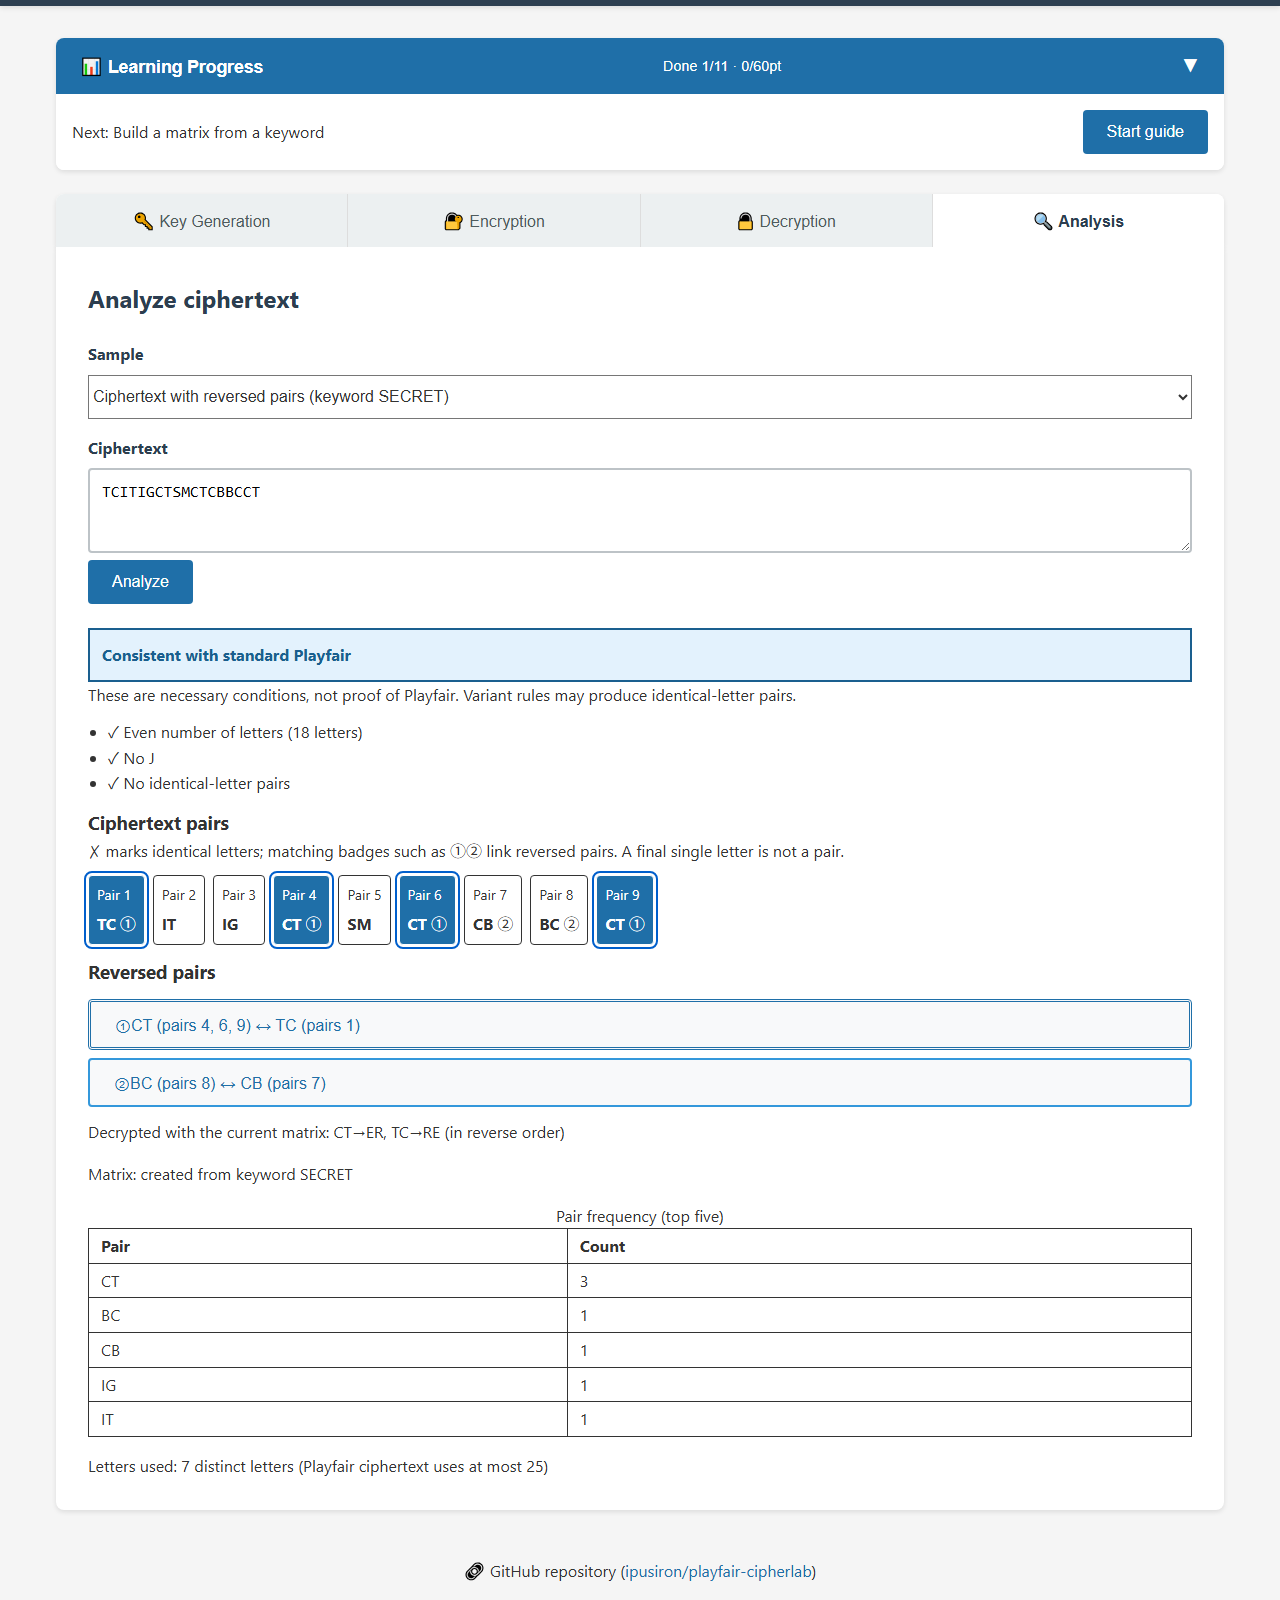
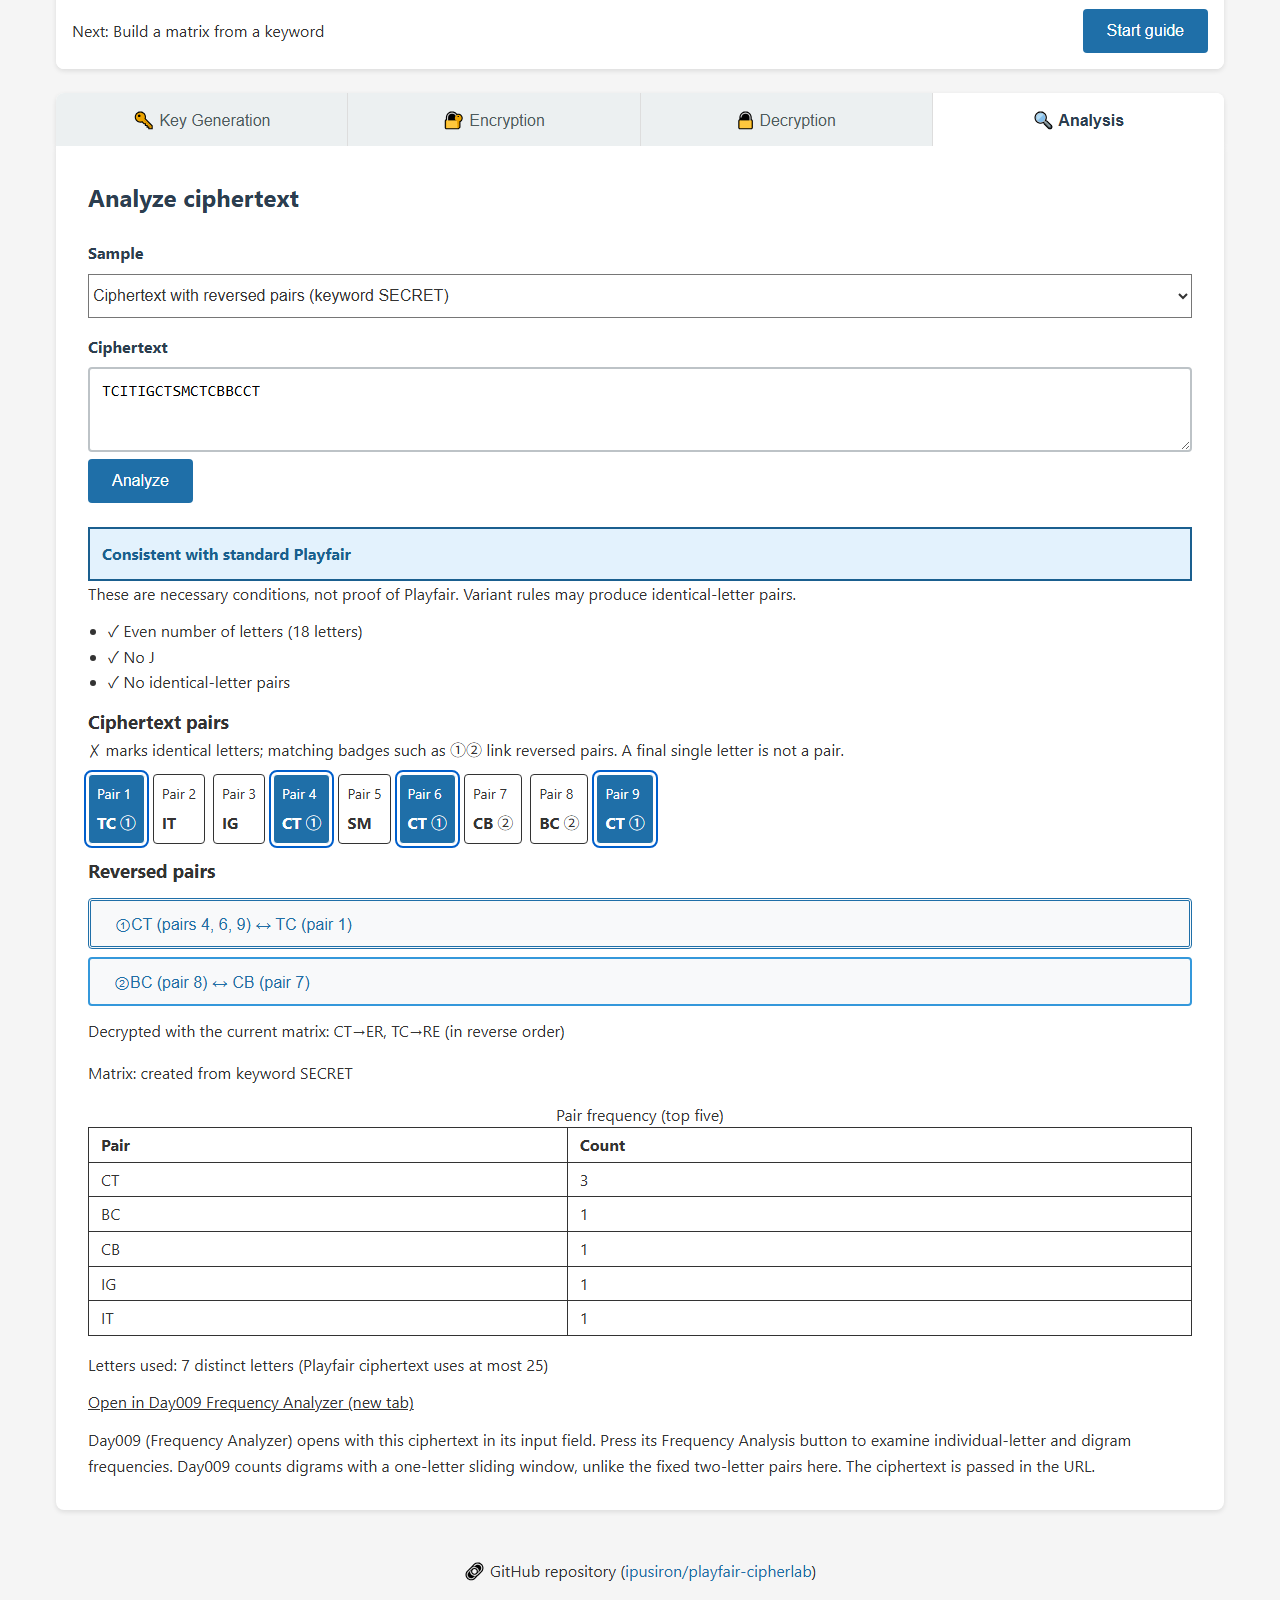
段階2: Day009への頻度分析連携と日英文書・画像を整備

diff --git a/js/i18n.js b/js/i18n.js
@@ -3,6 +3,11 @@ class I18nManager {
         this.currentLang = this.loadLanguage();
         this.translations = {
             ja: {
+                'analysis.open-frequency': 'Day009で頻度分析（新しいタブ）',
+                'analysis.frequency-description': 'Day009（Frequency Analyzer）が開き、この暗号文が入力欄に入ります。'
+                    + '『📊 頻度分析』を押すと、1文字ずつの頻度や二重字を調べられます。'
+                    + 'Day009の二重字は1文字ずつずらして数えるので、ここでの組（2文字ずつ区切る）とは数え方が違います。暗号文はURLに含めて渡します。',
+                'analysis.frequency-too-long': '5,000文字を超えるため、Day009へは渡せません',
                 'tab.analysis': '🔍 解析',
                 'analysis.heading': '暗号文を解析',
                 'analysis.sample': '見本',
@@ -201,6 +206,8 @@ class I18nManager {
 <p>逆順の組には同じ番号を付けます。一覧のボタンを押すと、いまの鍵表での復号と鍵表の出どころを表示します。</p>
 <p>Wikipediaの例のREとERのように、組の順序を逆にすると変換後の順序も逆になります。</p>
 <p>見本は鍵語SECRETのTCITIGCTSMCTCBBCCT、Wikipediaの例の暗号文、シーザー暗号の文（Khoor, Zruog!）です。暗号化の出力と復号の入力からも「解析へ送る」で移せます。</p>
+<p>「Day009で頻度分析（新しいタブ）」を押したときだけ暗号文をURLに含めてDay009の入力欄へ渡し、移動先の「📊 頻度分析」で分析します（5,000文字まで）。</p>
+<p>Day009の二重字は語ごとに1文字ずつずらして数えるため、ここでの2文字ずつ区切った組とは数え方が違います。</p>
 </section>
 <section><h3>学習進捗とナビ</h3>
 <p>11個のミッションを画面の操作で達成します。「次はこれ」はおすすめ順で、M1〜M8は自由に進められます。</p>
@@ -498,6 +505,12 @@ class I18nManager {
                 'help.warning.desc': '<strong>このツールは教育目的です。</strong>プレイフェア暗号は古典暗号であり、現代の暗号学的用途には適していません。'
             },
             en: {
+                'analysis.open-frequency': 'Open in Day009 Frequency Analyzer (new tab)',
+                'analysis.frequency-description': 'Day009 (Frequency Analyzer) opens with this ciphertext in its input field. '
+                    + 'Press its Frequency Analysis button to examine individual-letter and digram frequencies. '
+                    + 'Day009 counts digrams with a one-letter sliding window, unlike the fixed two-letter pairs here. '
+                    + 'The ciphertext is passed in the URL.',
+                'analysis.frequency-too-long': 'Cannot send to Day009 because the text exceeds 5,000 characters',
                 'tab.analysis': '🔍 Analysis',
                 'analysis.heading': 'Analyze ciphertext',
                 'analysis.sample': 'Sample',
@@ -700,6 +713,9 @@ Variant rules may produce identical-letter pairs.</p>
 <p>As with RE and ER in the Wikipedia example, reversing a pair also reverses its transformed result.</p>
 <p>Samples include TCITIGCTSMCTCBBCCT with keyword SECRET, the Wikipedia example ciphertext, and Caesar cipher text (Khoor, Zruog!).
 Use “Send to analysis” beside encryption output or below decryption input to analyze your own text.</p>
+<p>Only clicking “Open in Day009 Frequency Analyzer (new tab)” sends up to 5,000 characters in the URL to its input field;
+press its Frequency Analysis button to analyze them. Day009 counts overlapping digrams within words,
+unlike the fixed two-letter pairs here.</p>
 </section>
 <section><h3>Learning roadmap and guide</h3>
 <p>Complete eleven missions through screen actions. “Next” recommends an order; M1–M8 remain freely available.</p>

diff --git a/js/ui.js b/js/ui.js
@@ -335,6 +335,11 @@ class UI {
         const result = this.analysisResult;
         document.getElementById('analysis-empty').textContent = this.analysisEmpty ? i18n.t('analysis.empty') : '';
         document.getElementById('analysis-result').hidden = !result;
+        const frequencyLink = document.getElementById('analysis-open-frequency');
+        frequencyLink.removeAttribute('href');
+        frequencyLink.hidden = true;
+        document.getElementById('analysis-frequency-description').hidden = true;
+        document.getElementById('analysis-frequency-too-long').hidden = true;
         if (!result) {
             for (const id of ['analysis-verdict', 'analysis-checks', 'analysis-ignored', 'analysis-pairs',
                 'analysis-reversed-list', 'analysis-top-pairs', 'analysis-distinct', 'analysis-decrypted', 'matrix-status-analysis']) {
@@ -422,6 +427,14 @@ class UI {
         document.getElementById('analysis-top-pairs').replaceChildren(...rows);
         document.getElementById('analysis-distinct').textContent =
             i18n.t(`analysis.distinct.${result.distinct === 1 ? 'one' : 'other'}`, { n: result.distinct });
+        const frequencyUrl = PlayfairAnalysis.frequencyAnalyzerUrl(document.getElementById('analysis-input').value);
+        if (frequencyUrl) {
+            frequencyLink.href = frequencyUrl;
+            frequencyLink.hidden = false;
+            document.getElementById('analysis-frequency-description').hidden = false;
+        } else {
+            document.getElementById('analysis-frequency-too-long').hidden = false;
+        }
         this.renderAnalysisSelection();
     }
 

diff --git a/test/analysis.test.js b/test/analysis.test.js
@@ -3,6 +3,25 @@ const assert = require('node:assert/strict');
 const { PlayfairAnalysis: analysis } = require('../js/analysis.js');
 const { PlayfairCore: core } = require('../js/cipher.js');
 
+test('Polish C-1 Day009 URL preserves input case and punctuation while trimming outer whitespace', () => {
+    assert.equal(analysis.frequencyAnalyzerUrl('TCITIGCTSMCTCBBCCT'),
+        'https://ipusiron.github.io/frequency-analyzer/?text=TCITIGCTSMCTCBBCCT');
+    assert.equal(analysis.frequencyAnalyzerUrl('Khoor, Zruog!'),
+        'https://ipusiron.github.io/frequency-analyzer/?text=Khoor%2C%20Zruog!');
+    assert.equal(analysis.frequencyAnalyzerUrl(' \tKhoor, Zruog!\n '),
+        'https://ipusiron.github.io/frequency-analyzer/?text=Khoor%2C%20Zruog!');
+    assert.equal(analysis.frequencyAnalyzerUrl('A&B?#='),
+        'https://ipusiron.github.io/frequency-analyzer/?text=A%26B%3F%23%3D');
+});
+
+test('Polish C-1 Day009 URL rejects empty input and enforces the 5000-character boundary', () => {
+    assert.equal(analysis.frequencyAnalyzerUrl('   '), null);
+    assert.equal(analysis.frequencyAnalyzerUrl(''), null);
+    assert.equal(analysis.frequencyAnalyzerUrl('A'.repeat(5000)),
+        'https://ipusiron.github.io/frequency-analyzer/?text=' + 'A'.repeat(5000));
+    assert.equal(analysis.frequencyAnalyzerUrl('A'.repeat(5001)), null);
+});
+
 const examples = [
     ['TCITIGCTSMCTCBBCCT', 'TCITIGCTSMCTCBBCCT', [], [true, true, true], [], [
         { pair: 'CT', reverse: 'TC', at: [3, 5, 8], reverseAt: [0] },

diff --git a/test/html.test.js b/test/html.test.js
@@ -5,6 +5,18 @@ const path = require('node:path');
 const html = fs.readFileSync(path.join(__dirname, '../index.html'), 'utf8');
 const attribute = (tag, name) => tag.match(new RegExp(`\\b${name}="([^"]*)"`))?.[1];
 
+test('Polish C-2 Day009 link is safe, initially hidden and follows the existing analysis output', () => {
+    const tag = html.match(/<a\b[^>]*id="analysis-open-frequency"[^>]*>/)[0];
+    assert.equal(attribute(tag, 'target'), '_blank');
+    assert.equal(attribute(tag, 'rel'), 'noopener noreferrer');
+    assert.equal(attribute(tag, 'href'), undefined);
+    assert.match(tag, /\bhidden\b/);
+    assert.ok(html.indexOf('id="analysis-open-frequency"') > html.indexOf('id="analysis-distinct"'));
+    for (const id of ['analysis-open-frequency', 'analysis-frequency-description', 'analysis-frequency-too-long']) {
+        assert.equal([...html.matchAll(new RegExp(`\\bid="${id}"`, 'g'))].length, 1, id);
+    }
+});
+
 test('G-3 analysis tab, labelled controls, result regions and send buttons exist', () => {
     for (const id of ['tab-analysis', 'analysis', 'analysis-sample', 'analysis-input', 'analyze-btn', 'analysis-result',
         'analysis-pairs', 'analysis-reversed-list', 'send-to-analysis-encryption', 'send-to-analysis-decryption']) {

diff --git a/js/analysis.js b/js/analysis.js
@@ -38,7 +38,13 @@ const PlayfairAnalysis = (() => {
         return { pair, plain: plain.plaintext, reversePlain: reversePlain.plaintext };
     }
 
-    return Object.freeze({ analyze, reversePairsDecrypt });
+    function frequencyAnalyzerUrl(text) {
+        const trimmed = text.trim();
+        if (!trimmed || trimmed.length > 5000) return null;
+        return 'https://ipusiron.github.io/frequency-analyzer/?text=' + encodeURIComponent(trimmed);
+    }
+
+    return Object.freeze({ analyze, reversePairsDecrypt, frequencyAnalyzerUrl });
 })();
 
 if (typeof module !== 'undefined' && module.exports) {

diff --git a/index.html b/index.html
@@ -491,6 +491,10 @@
             <tbody id="analysis-top-pairs"></tbody>
           </table>
           <p id="analysis-distinct"></p>
+          <a id="analysis-open-frequency" class="analysis-frequency-link" target="_blank" rel="noopener noreferrer"
+            data-i18n="analysis.open-frequency" hidden></a>
+          <p id="analysis-frequency-description" data-i18n="analysis.frequency-description" hidden></p>
+          <p id="analysis-frequency-too-long" data-i18n="analysis.frequency-too-long" hidden></p>
         </div>
         </div>
       </div>

diff --git a/css/styles.css b/css/styles.css
@@ -344,6 +344,15 @@ main {
 }
 
 /* Tabs */
+.analysis-frequency-link {
+    display: inline-block;
+    min-height: 44px;
+    max-width: 100%;
+    padding: 0.75rem 0;
+    color: var(--text-fg);
+    text-decoration: underline;
+}
+
 .tabs {
     display: flex;
     background-color: white;

diff --git a/README.en.md b/README.en.md
@@ -50,7 +50,7 @@ Use it directly in your browser. You can also download the files and open index.
 
 > *TCITIGCTSMCTCBBCCT is analyzed with the SECRET matrix and entry ① selected. CT→ER and TC→RE show reversal after decryption.*
 
-1280×1600px, 73,243 bytes.
+1280×1600px, 79,195 bytes.
 
 ## ✨ Features
 
@@ -82,6 +82,7 @@ Use it directly in your browser. You can also download the files and open index.
 - Numbered pairs, linked reversal badges and a list showing reversed decryption with the current matrix
 - The five most frequent pairs, distinct-letter count and ignored characters
 - Send encryption output or decryption input to analysis; editing the input or sample hides stale results
+- Send ciphertext to [Day009 (Frequency Analyzer)](https://ipusiron.github.io/frequency-analyzer/) to analyze letter and digram frequencies; its overlapping digrams differ from the fixed pairs counted here
 
 ### 🎬 Playback and display
 
@@ -174,6 +175,11 @@ Samples include ciphertext with reversed pairs made using SECRET, the Wikipedia 
 “Send to analysis” also copies encryption output or decryption input and analyzes it.
 J is checked without merging it into I. Whitespace is removed; other nonletters are listed as ignored characters.
 The matrix never changes automatically. Save the SECRET matrix on the Key Generation tab to reproduce the sample's decryption.
+
+Click “Open in Day009 Frequency Analyzer (new tab)” below the results to fill the input field in [Day009](https://ipusiron.github.io/frequency-analyzer/).
+Press its Frequency Analysis button to examine letter and digram frequencies.
+Day009 counts digrams with a one-letter sliding window within words, unlike the fixed two-letter pairs here.
+The original ciphertext, with only leading and trailing whitespace trimmed, is passed in the URL. The link is hidden above 5,000 characters.
 
 ## 🧠 About the Playfair cipher
 
@@ -340,6 +346,7 @@ Answer: `ATTACK AT DAWN`.
 ## 🔒 Security
 
 All cipher operations run in the browser with no runtime API, CDN, external font or dependency.
+Only clicking the Day009 link opens Day009 with ciphertext in the URL. Ciphertext is not otherwise sent outside the tool.
 Playfair is an educational classical cipher and must not be used to protect secrets.
 
 The meta CSP allows scripts and styles only from self, without unsafe-inline.

diff --git a/CLAUDE.md b/CLAUDE.md
@@ -45,6 +45,8 @@ immediately after body opens so the saved theme applies before the first paint.
    - Empty, impossible or consistent verdict; conditions are necessary, not proof
    - Pair positions, reversals, top-five frequencies, distinct and ignored characters
    - Decrypt a pair and its reversal with the current matrix through PlayfairCore
+   - `frequencyAnalyzerUrl(text)` trims the original input and returns an encoded
+     Day009 URL, or null for empty input or more than 5,000 characters
 
 2. **exercises.js** - `ExerciseManager` class: challenge/practice data and pure answer validation
    - No DOM, localStorage, or i18n access; no progress state or writes
@@ -161,6 +163,10 @@ Use textContent and DOM APIs for dynamic content. Only fixed help
 dictionary templates may use innerHTML; never interpolate user input there.
 Use no-referrer and noopener noreferrer for external links. Do not add
 frame-ancestors to a meta CSP because it has no effect there.
+Analysis creates a Day009 Frequency Analyzer link without fetching anything.
+Ciphertext leaves the tool only when the user clicks that link, in the URL;
+preserve case and punctuation, and remove stale href values when input changes.
+Day009 counts overlapping digrams within words, not fixed Playfair pairs.
 
 ## Automated Tests
 
